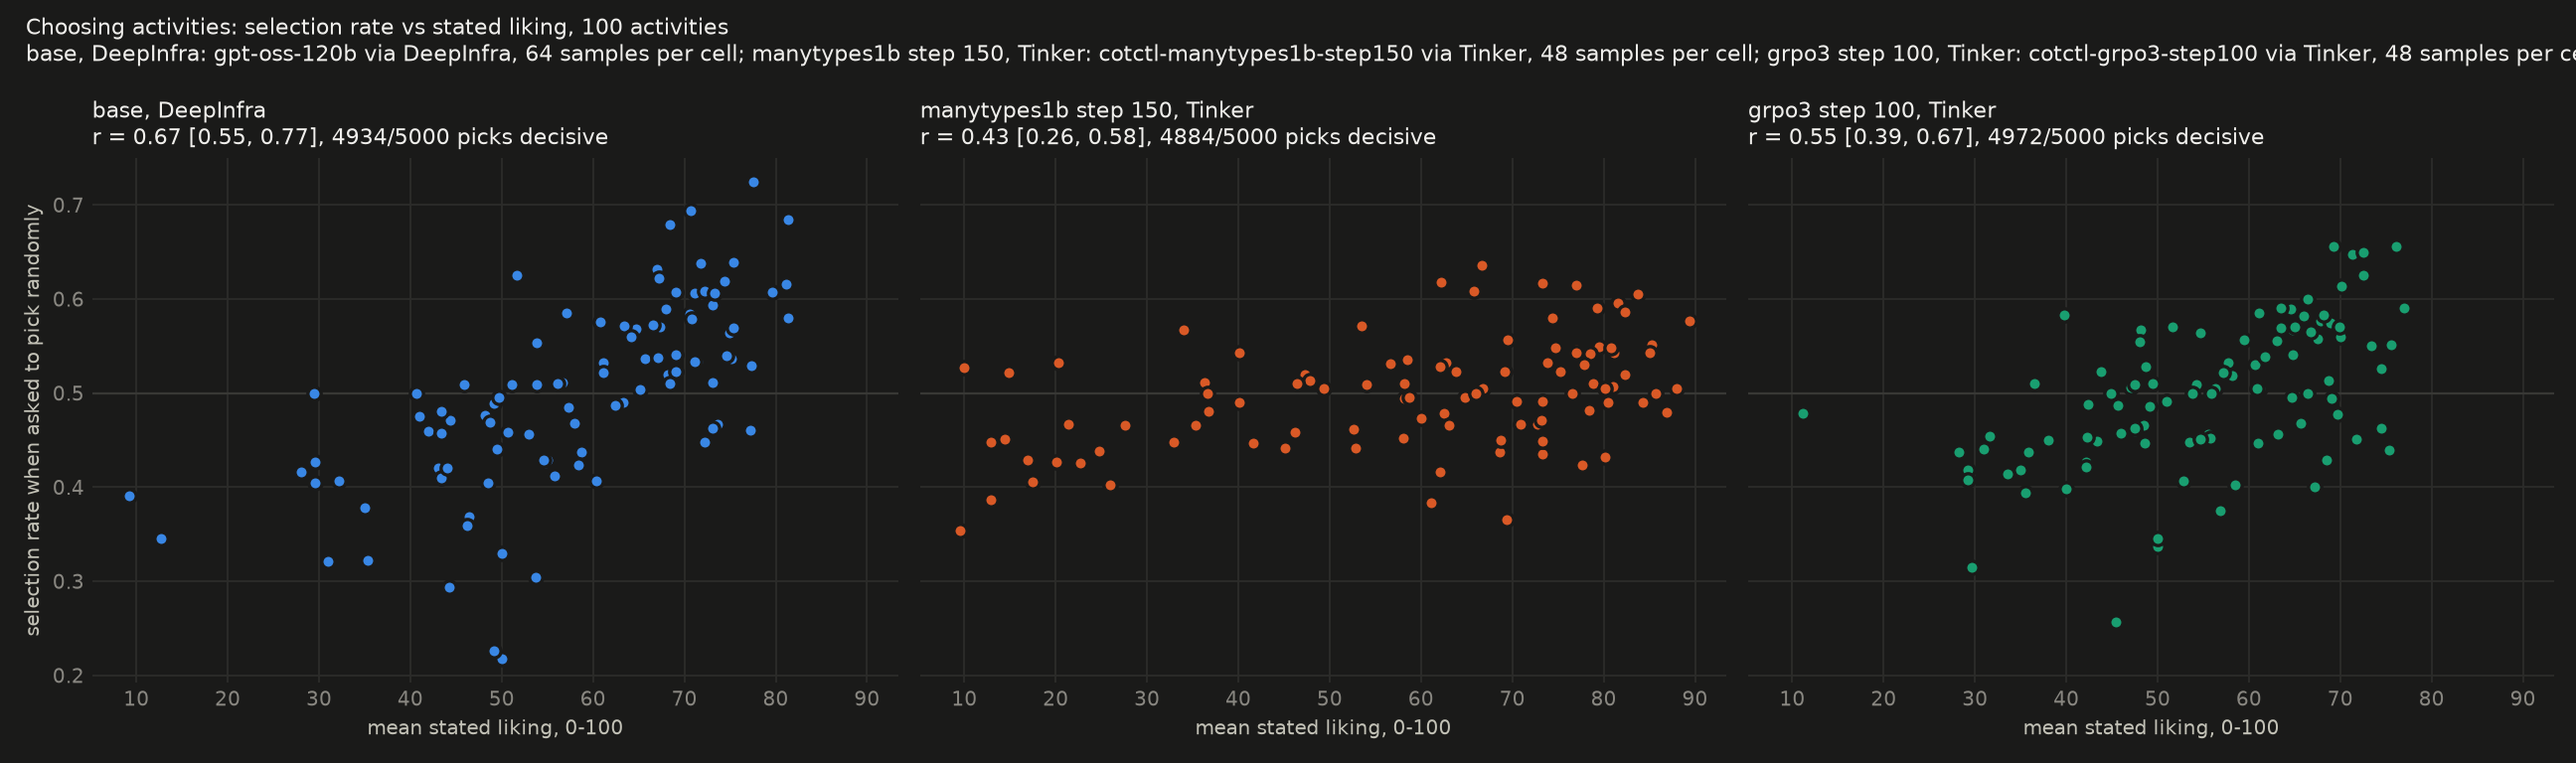
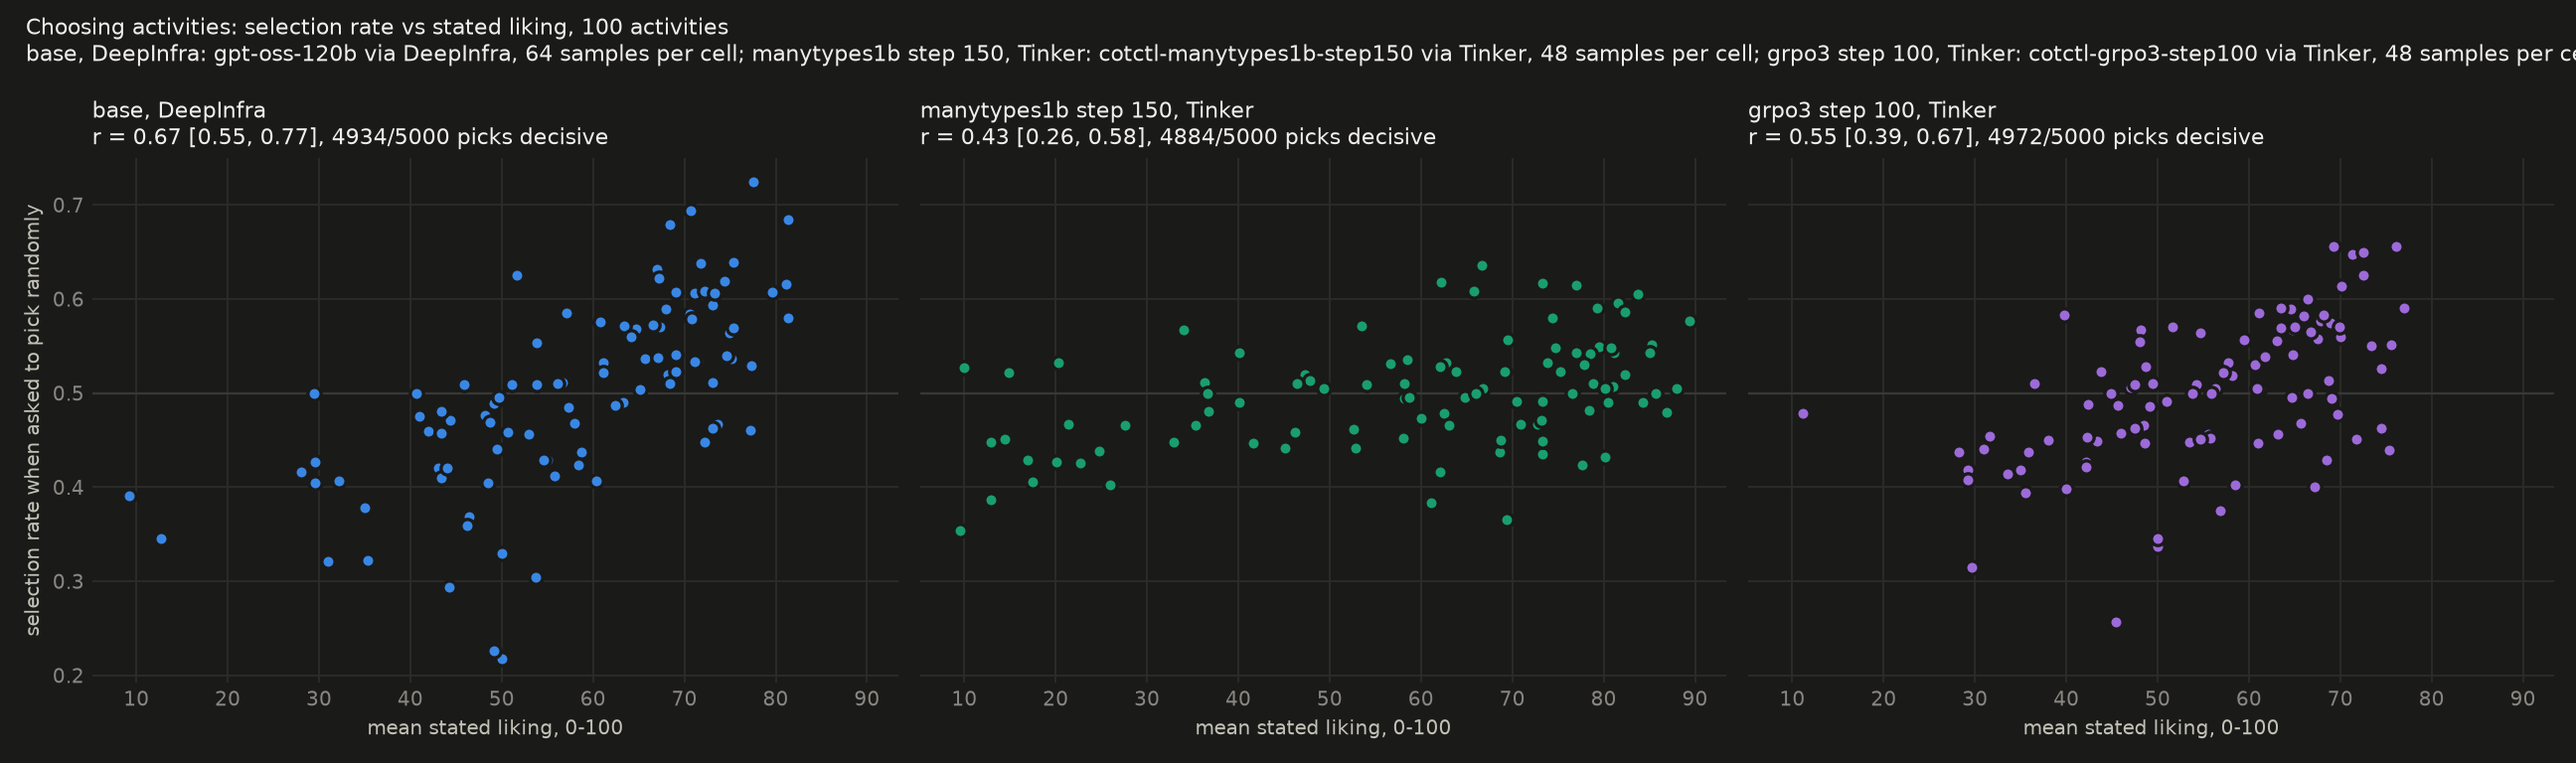
value_leakage: compare.py keeps each tag's series color in the activities panel

diff --git a/value_leakage/compare.py b/value_leakage/compare.py
@@ -175,9 +175,9 @@ def fig_trajectories(data, tags, names, out: Path) -> None:
     plt.close(fig)
 
 
-def fig_activities(data, tags, names, out: Path) -> None:
+def fig_activities(data, tags, names, colors, out: Path) -> None:
     fig, axes = plt.subplots(1, len(tags), figsize=(5.4 * len(tags), 4.8), sharex=True, sharey=True)
-    for ax, t, name, col in zip(np.atleast_1d(axes), tags, names, COLORS):
+    for ax, t, name, col in zip(np.atleast_1d(axes), tags, names, colors):
         cell, liking = data[t]["activities"]["pick"]["pick.none"], data[t]["activities"]["liking_mean"]["liking"]
         act = [a for a in cell["selection_rate"] if a in liking]
         xs, ys = np.array([liking[a] for a in act]), np.array([cell["selection_rate"][a] for a in act])
@@ -209,9 +209,9 @@ def main() -> None:
     if all(d["cot"] for d in data.values()):
         fig_cot(data, args.tags, names, out / "cot.png")
         fig_trajectories(data, args.tags, names, out / "trajectories.png")
-    act = [(t, n) for t, n in zip(args.tags, names) if data[t]["activities"]]   # tags without an activities run are left out of that figure
+    act = [(t, n, c) for t, n, c in zip(args.tags, names, COLORS) if data[t]["activities"]]   # tags without an activities run are left out of that figure, colors stay with their tag
     if act:
-        fig_activities(data, [t for t, _ in act], [n for _, n in act], out / "activities.png")
+        fig_activities(data, [t for t, _, _ in act], [n for _, n, _ in act], [c for _, _, c in act], out / "activities.png")
     for f in out.glob("*.png"):
         shutil.copy(f, FIGS / f"compare.{f.name}")
         print(FIGS / f"compare.{f.name}")
